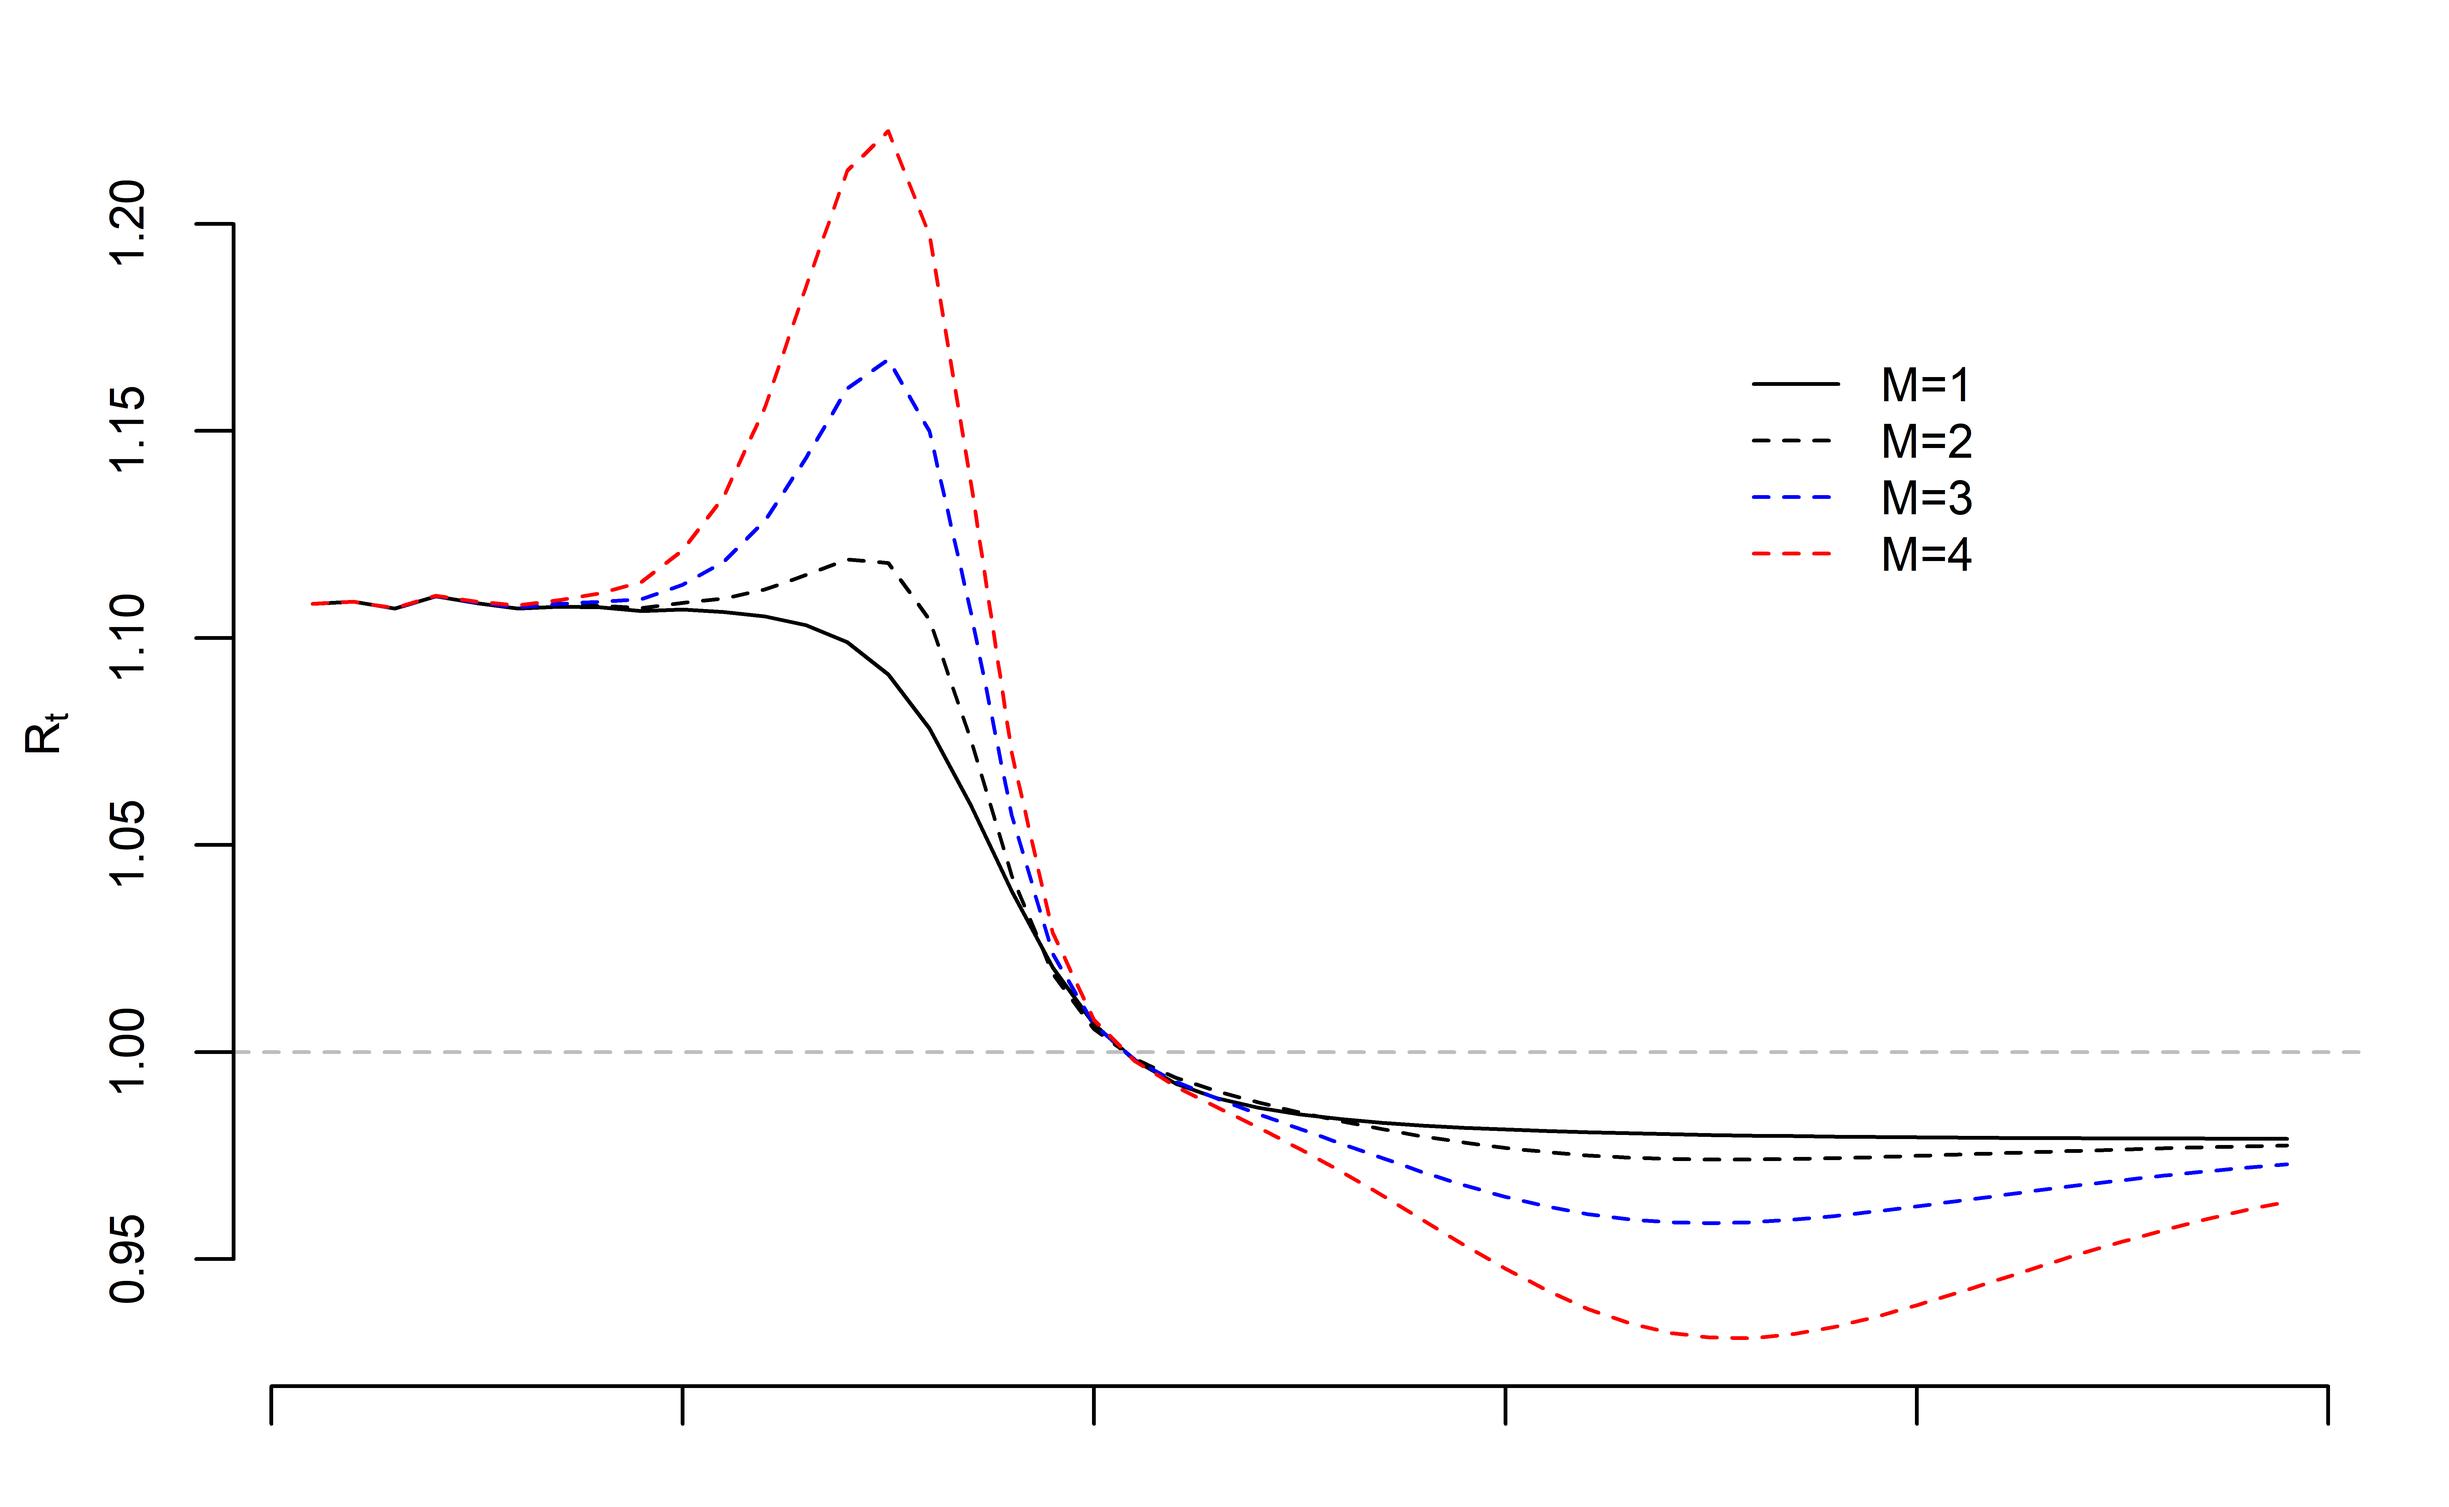
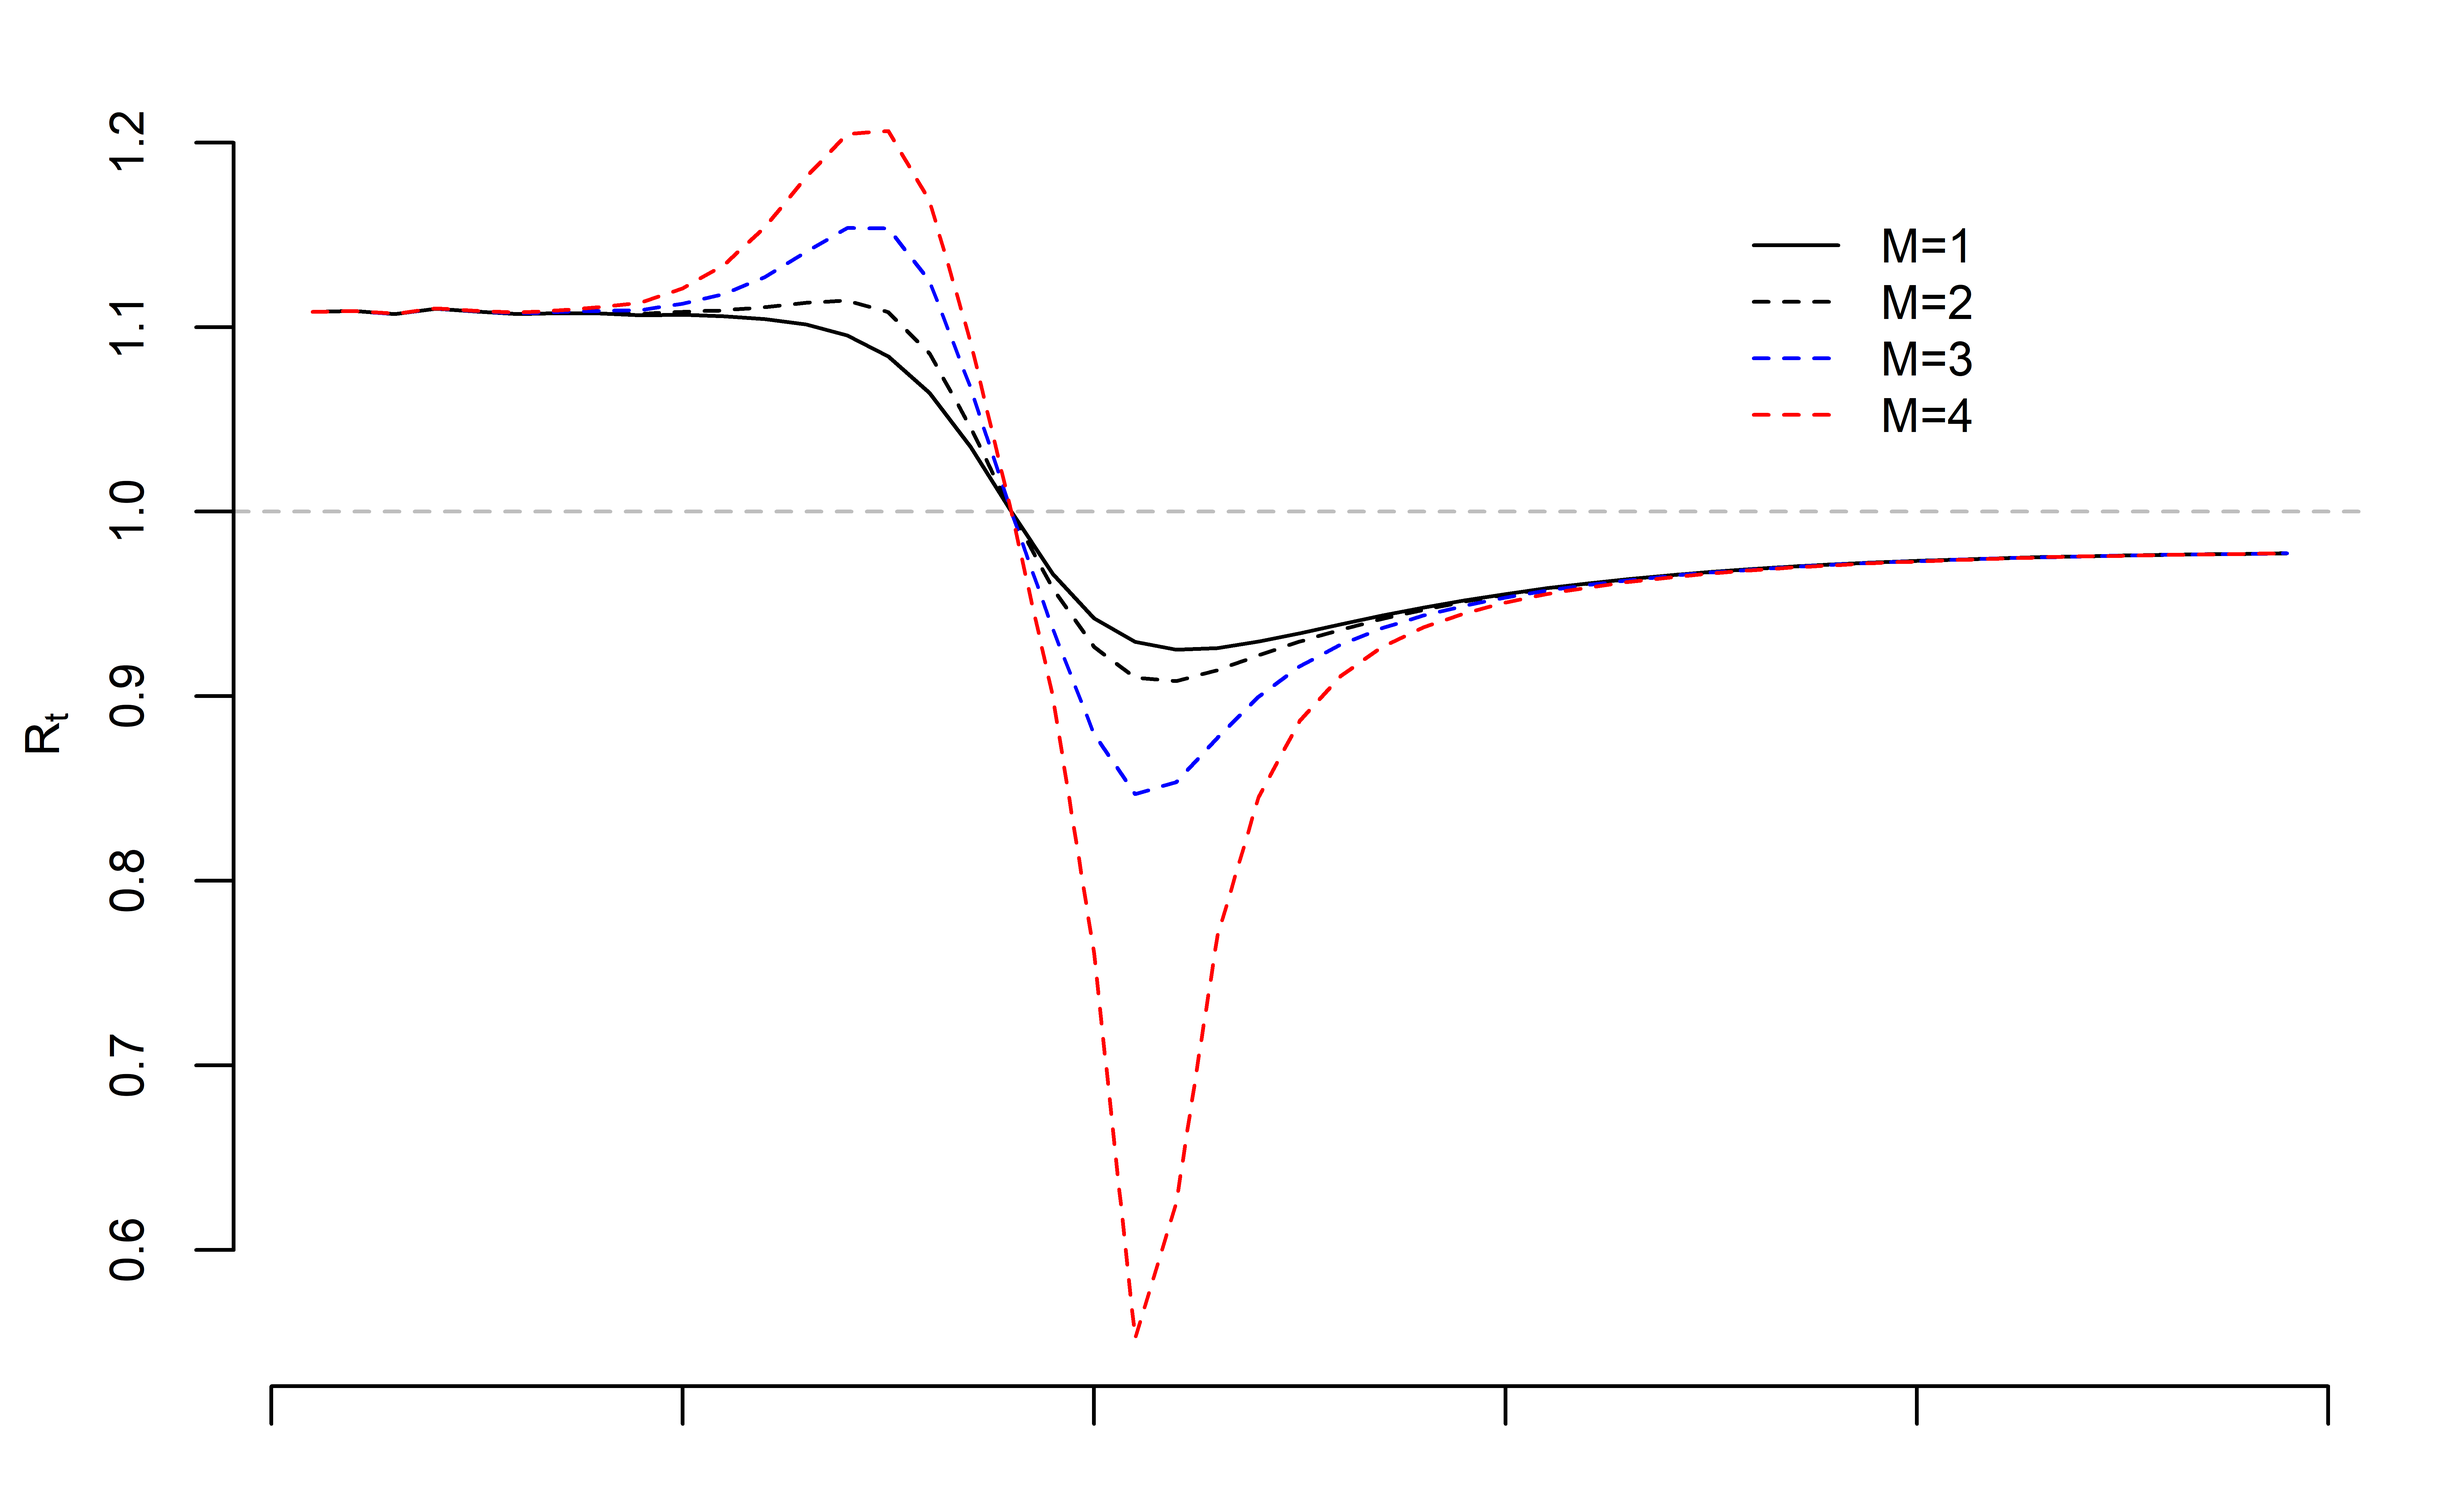
final pre send out draft update

diff --git a/write-up/covid-writeup.tex b/write-up/covid-writeup.tex
@@ -184,15 +184,15 @@ Many well-respected epidemiologists argue that tracking the effective reproducti
 $$
 R_t = 1 + \frac{1}{\gamma} \log \left( \frac{K_t}{K_{t-1}} \right).
 $$
-Of course, we do not observe $K_t$ and $K_{t-1}$ but noisy proxies $y_t$ and $y_{t-1}$, i.e., the observed case-count on day $t$ and $t-1$ respectively. The hope is that $y_t/y_{t-1}$ is a good proxy for $K_t/K_{t-1}$. Let $\hat R_t = 1 + \frac{1}{\gamma} \log \left( y_t / y_{t-1} \right)$ be the estimated effective reproduction number on day $t$.  Under SRS with the same sample size at each step, this is true for sufficiently large sample size.  However, similar to Section~\ref{section:rates}, the proxy has error in both numerator and denominator that may cause issues.  We again wish to express the statistical error of $\hat R_t - R_t$ in useful terms.  We can re-arrange the error decomposition from Section~\ref{section:rates} to show that this error is given by
+Of course, we do not observe $K_t$ and $K_{t-1}$ but noisy proxies $y_t$ and $y_{t-1}$, i.e., the observed case-count on day $t$ and $t-1$ respectively. The hope is that $y_t/y_{t-1}$ is a good proxy for $K_t/K_{t-1}$. However, if we think about estimating number $K_t$ under SRS of new cases among those susceptible on day $t$, the natural estimator is $S_t \bar y_t$.  Unfortunately the number of individuals susceptible on day $t$ is unknown.  Here, we assume that $\hat R_t = 1 + \frac{1}{\gamma} \log \left( \bar y_t / \bar y_{t-1} \right)$ be the estimated effective reproduction number on day $t$.
+This estimator adjusts for sample size variation across days but not the varying population size. The estimator is close in spirit to the estimator derived under assuming the process is fully observed.  Similar to Section~\ref{section:rates}, the proxy has error in both numerator and denominator that may cause issues.  We again wish to express the statistical error of $\hat R_t - R_t$ in useful terms.  We can re-arrange the error decomposition from Section~\ref{section:rates} to show that this error is given by
 $$
 \begin{aligned}
 \frac{1}{\gamma}\log &\bigg( 1 + \bigg[ \rho_{I_t,K_t} D_{M_t} \sqrt{\frac{1-f_t}{f_t}} CV (K_t)  -\rho_{I_{t-1},K_t} D_{M_t} \sqrt{\frac{1-f_t}{f_t}} CV (K_t) \bigg] \\
-&\times \left[ 1 - \rho_{I_t,K_t} D_{M_t} \sqrt{\frac{1-f_t}{f_t}} CV (K_t) \right] \bigg)
+&\times \left[ 1 - \rho_{I_t,K_t} D_{M_t} \sqrt{\frac{1-f_t}{f_t}} CV (K_t) \right] \bigg) - \frac{1}{\gamma} \log \left( \frac{S_t}{S_{t-1}} \right).
 \end{aligned}
 $$
-So here we see the exact same trade-off as with the rates but on the logarithmic scale.  For small values of $x$, we have $\log(1+x) = x$ and so the biases are similar.  However, the error is no longer scaled by the rate of change in prevalence $\bar Y_2/\bar Y_1$. Instead the error is scaled by the serial interval $\gamma^{-1} = 1/7$.  Moreover, the error depends not on aggregate prevalence $\bar Y_t$ but fraction of new cases $\bar K_t$. Figure~\ref{fig:r0-bias} displays the bias for the effective reproductive number and how it is impacted by the relative sampling fraction.  Results are similar to the ratio estimate, but the impact on the underestimation is more severe due to the logarithmic transformation.
-
+So here we see the exact same trade-off as with the rates but on the logarithmic scale.  For small values of $x$, we have $\log(1+x) = x$ and so the biases are similar.  However, the error is no longer scaled by the rate of change in prevalence $\bar Y_2/\bar Y_1$. Instead the error is scaled by the serial interval $\gamma^{-1} = 1/7$.  Moreover, the error depends not on aggregate prevalence $\bar Y_t$ but fraction of new cases $\bar K_t$. The final term is the error due to varying population sizes.  Since $S_t \leq S_{t-1}$, the final term $- \log (S_t/S_{t-1}) \geq 0$. Figure~\ref{fig:r0-bias} displays the bias for the effective reproductive number and how it is impacted by the relative sampling fraction.  Here for simplicity, we assume the fraction of the population that is susceptible remains large and near the total population size.  Under these assumption, the potential bias is equivalent to that for the ratio estimator adjusted to be on the logarithm scale.  We note that changes to this assumption can drastically impact the potential bias.
 
 \begin{figure}
 \centering
@@ -357,7 +357,7 @@ There is nothing routine about COVID-19, including the corresponding statistical
 
 Not only that, in current crisis data quality is often tied to data quantity due to rationing system.  Increasing testing under test rationing lowers correlation.  There is a lot of hidden information in the selection indicator $I_j$.  Indeed, individuals must first seek testing and then call their primary health care provider must decide whether they met thresholds for testing.  Our analysis shows the limitations and caveats that come from analysis of this data in terms of estimation of prevalence, rates of change, and cross-country comparisons.  We show how one can build simple sensitivity analyses to understand the potential bias in case-count data using surveys that will become more prevalent in the next few months.
 
-One potential approach is via model-based extensions of the mentioned SIR models to try and capture both selection bias and measurement-error issues (cite); however, without strong assumptions on the selection mechanism, the estimates are often not nonparametrically identifiable.  As Cox and Hinckley (XXXX, p. 96) write, when an issue ``cannot be resolved nonparametrically then it is usually dangerous to resolve it parametrically.'' In the absence of randomized experiments, the best route forward using any approach are detailed sensitivity analyses and humility in conclusions drawn from such data sources.
+One potential approach is via model-based extensions of the mentioned SIR models to try and capture both selection bias and measurement-error issues (cite); however, without strong assumptions on the selection mechanism, the estimates are often not nonparametrically identifiable.  Indeed, when an issue ``cannot be resolved nonparametrically then it is usually dangerous to resolve it parametrically'' ~\cite[pp. 96]{CoxHink74}. In the absence of randomized experiments, the best route forward using any approach are detailed sensitivity analyses and humility in conclusions drawn from such data sources.
 
 \bibliographystyle{plainnat}
 \bibliography{covid-refs}
@@ -465,6 +465,7 @@ $$
 $$
 
 \subsection{Ratio estimator}
+\label{app:ratio}
 
 Let ${\bf u} = (u_{t-1},u_t) \in \mathbb{R}^2$ and $g({\bf u}) = \frac{u_t}{u_{t-1}}$, i.e., a differentiable function $g:\mathbb{R}^2 \to \mathbb{R}$. Centering a Taylor series expansion of second-order around coordinates $(U_2, U_1) \in \mathbb{R}^2$ yields
 $$
@@ -491,11 +492,21 @@ where the second equality is obtained by plugging in the statistical decompositi
 
 Let
 $$
-\delta_{t} = \rho_{I_t,Y_t} \sqrt{\frac{1-f_t}{f_t}} CV (Y_t)  -\rho_{I_{t-1},Y_{t-1}} \sqrt{\frac{1-f_{t-1}}{f_{t-1}}} CV (Y_{t-1}).
+\delta_t := \bigg[ \rho_{I_t,K_t} D_{M_t} \sqrt{\frac{1-f_t}{f_t}} CV (K_t)  -\rho_{I_{t-1},K_{t-1}} D_{M_{t-1}} \sqrt{\frac{1-f_t}{f_t}} CV (K_{t-1}) \bigg].
 $$
-Then the estimate of the number of new cases on day $t$ is given by
+Then results from Section~\ref{app:ratio} show that the estimate of the number of new cases on day t is given by
 $$
-\frac{S_t \cdot \bar y_t}{S_{t-1} \cdot \bar y_{t-1}} - \frac{K_t}{K_{t-1}}
+\frac{S_t \cdot \bar y_t}{S_{t-1} \cdot \bar y_{t-1}} =
+\frac{K_t}{K_{t-1}} \left( 1 + \delta_t \times \left[ 1 - \rho_{I_{t-1},K_{t-1}} D_{M_{t-1}} \sqrt{\frac{1-f_t}{f_t}} CV (K_{t-1}) \right] \right)
+$$
+Then setting $e_t = \delta_t \times [1 - \rho_{I_{t-1},K_{t-1}} D_{M_{t-1}} \sqrt{\frac{1-f_t}{f_t}} CV (K_{t-1}) ]$, we have
+$$
+\begin{aligned}
+\log \left( \frac{S_t \bar y_t}{S_{t-1} \bar y_{t-1}} \right) - \log \left( \frac{K_t}{K_{t-1}} \right) &= \log (1 + e_t) \\
+\log \left( \frac{\bar y_t}{\bar y_{t-1}} \right) - \log \left( \frac{K_t}{K_{t-1}} \right) &= 1 + e_t - \log \left( \frac{S_t}{S_{t-1}} \right) \\
+1 + \frac{1}{\gamma} \log \left( \frac{\bar y_t}{\bar y_{t-1}} \right) - \left[ 1 + \frac{1}{\gamma} \log \left( \frac{K_t}{K_{t-1}} \right) \right] &= \frac{1}{\gamma} \left[ \log \left( 1 + e_t \right) - \log \left( \frac{S_{t}}{S_{t-1}} \right) \right] \\
+\Rightarrow \hat R_t - R_t &= \frac{1}{\gamma} \left[ \log \left( 1 + e_t \right) - \log \left( \frac{S_{t}}{S_{t-1}} \right) \right]
+\end{aligned}
 $$
 
 
